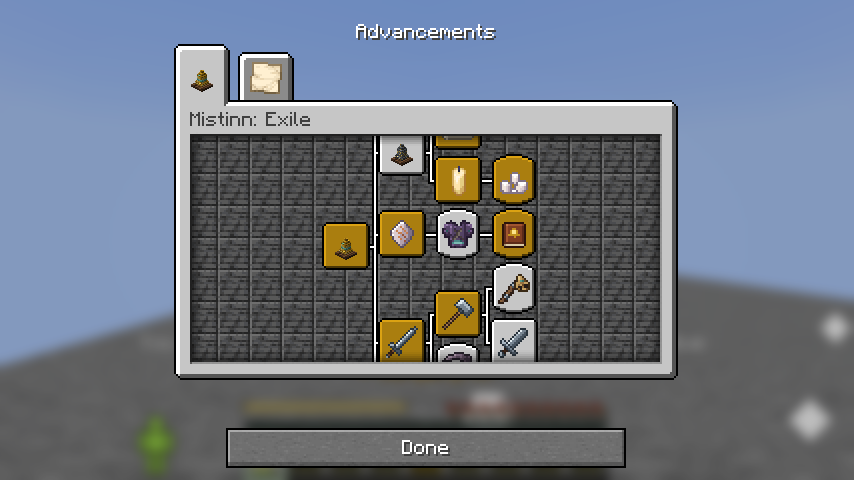
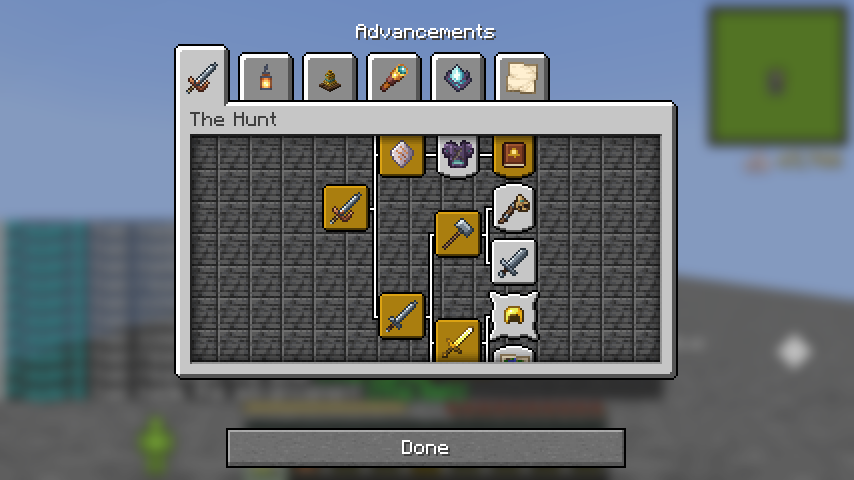
feat: 成就分成追獵、霧岸、生存、遠方與憧憬的屍之道五個分頁
- 新增四個分頁的根（霧岸、生存、遠方、憧憬的屍之道），原本的根改成「追獵」；既有成就的 ID 不變，只改掛到所屬分頁，玩家的進度不會掉
- 霧岸保留「熄燈人、沉鐘、鏽輪、結局」整條，結局仍要打倒沉鐘後才看得到；十二人斬放在大地之下（第三層）
- 憧憬的屍之道分頁只在屍之道世界、或拿過屍之道成就的追獵者身上出現；清除成就（離開訓練場）時保留所有分頁
- 墨斗的台詞、中英自述文件的成就段落改成分頁的說法，表格依分頁拆開，數量更正為四十三個（兩個隱藏）；換上新的分頁截圖
- 成就測試補上分頁的檢查，並補頒原本漏掉的十三人斬

diff --git a/src/main/java/life/shizune/mistinn/achievement/AchievementService.java b/src/main/java/life/shizune/mistinn/achievement/AchievementService.java
@@ -88,8 +88,21 @@ public final class AchievementService {
 	private static final String KILL = "kill:";
 	/** The folder of the tab, under the mod's namespace. */
 	private static final String TAB = "hunt/";
-	/** The tab's root: every hunter has it from the moment they arrive, so the tab is there before anything is earned. */
+	/**
+	 * The hunt's tab (weapons, footwork, stats, elites): its root, like every tab's, every hunter has from the moment they
+	 * arrive, so the tab is there before anything on it is earned. It is the tab the guide's bookmark opens.
+	 */
 	public static final Identifier ROOT = Mistinn.id(TAB + "root");
+	/** The other tabs: the mist shore (the story and its keepers), survival, afar (the sea, the rifts, Terra), and the tillers' way. */
+	public static final Identifier SHORE_TAB = Mistinn.id(TAB + "tab_shore");
+	public static final Identifier SURVIVAL_TAB = Mistinn.id(TAB + "tab_survival");
+	public static final Identifier AFAR_TAB = Mistinn.id(TAB + "tab_afar");
+	public static final Identifier PATH_TAB = Mistinn.id(TAB + "tab_path");
+	/** Every tab's root. */
+	public static final List<Identifier> ROOTS = List.of(ROOT, SHORE_TAB, SURVIVAL_TAB, AFAR_TAB, PATH_TAB);
+	/** What is on the tillers' way's tab: a hunter who holds any of these keeps the tab in any world. */
+	private static final List<Achievement> PATH_ONES = List.of(Achievement.SEA_SEEN, Achievement.XIRANG, Achievement.THE_LAND, Achievement.TWELVE_SLAIN,
+		Achievement.THIRTEEN_SLAIN);
 
 	/**
 	 * Set by the client: whether the local hunter has an achievement or mark, read from the advancements the server
@@ -211,12 +224,18 @@ public final class AchievementService {
 	}
 
 	/**
-	 * A hunter has arrived in a world: they get the tab's root, and a record kept the old way (before achievements
-	 * were advancements) is moved over once, without paying its salt again.
+	 * A hunter has arrived in a world: they get the tabs' roots, and a record kept the old way (before achievements
+	 * were advancements) is moved over once, without paying its salt again. The tillers' way's tab is only for a world
+	 * of the way, or a hunter who has walked it: nowhere else is anything on it to be earned.
 	 */
 	public static void joined(final ServerPlayer player) {
-		AdvancementHolder root = holder(player, ROOT);
-		if (root != null) {
+		boolean way = life.shizune.mistinn.story.WorldMode.of(player.level().getServer()) == life.shizune.mistinn.story.WorldMode.PATH
+			|| PATH_ONES.stream().anyMatch(each -> has(player, each));
+		for (Identifier id : ROOTS) {
+			AdvancementHolder root = holder(player, id);
+			if (root == null || id.equals(PATH_TAB) && !way) {
+				continue;
+			}
 			for (String criterion : List.copyOf(root.value().criteria().keySet())) {
 				player.getAdvancements().award(root, criterion);
 			}
@@ -271,12 +290,12 @@ public final class AchievementService {
 		}
 	}
 
-	/** Forgets every achievement and mark (the root stays): leaving the training ground, and tests. */
+	/** Forgets every achievement and mark (the tabs' roots stay): leaving the training ground, and tests. */
 	public static void clear(final ServerPlayer player) {
 		PlayerAdvancements advancements = player.getAdvancements();
 		for (AdvancementHolder holder : player.level().getServer().getAdvancements().getAllAdvancements()) {
 			Identifier id = holder.id();
-			if (!id.getNamespace().equals(Mistinn.MOD_ID) || !id.getPath().startsWith(TAB) || id.equals(ROOT)) {
+			if (!id.getNamespace().equals(Mistinn.MOD_ID) || !id.getPath().startsWith(TAB) || ROOTS.contains(id)) {
 				continue;
 			}
 			List<String> done = new java.util.ArrayList<>();

diff --git a/src/gametest/java/life/shizune/mistinn/test/MistinnAchievementTest.java b/src/gametest/java/life/shizune/mistinn/test/MistinnAchievementTest.java
@@ -99,6 +99,11 @@ public final class MistinnAchievementTest implements FabricClientGameTest {
 		world.getServer().runOnServer(server -> {
 			ServerPlayer player = player(server);
 			check(AchievementService.has(player, AchievementService.ROOT.getPath().substring("hunt/".length())), "every hunter has the tab's root from the start");
+			// the tabs: four in a world that is not the tillers' way; that one only for a hunter who has walked it
+			for (net.minecraft.resources.Identifier root : AchievementService.ROOTS) {
+				boolean want = !root.equals(AchievementService.PATH_TAB);
+				check(AchievementService.has(player, root.getPath().substring("hunt/".length())) == want, root + (want ? " is a tab from the start" : " is not a tab here"));
+			}
 			player.setAttached(MistinnAttachments.ACHIEVEMENTS, some);
 			AchievementService.joined(player);
 			check(AchievementService.has(player, Achievement.FIRST_KILL) && AchievementService.has(player, AchievementService.SNUFFER) && AchievementService.has(player, "kill:blade"),
@@ -108,6 +113,11 @@ public final class MistinnAchievementTest implements FabricClientGameTest {
 			check(player.getAttached(MistinnAttachments.ACHIEVEMENTS) == null, "and the old record is gone");
 			AchievementService.clear(player);
 			check(AchievementService.earned(player) == 0 && !AchievementService.has(player, "kill:blade"), "clearing forgets every one");
+			check(AchievementService.has(player, AchievementService.SHORE_TAB.getPath().substring("hunt/".length())), "but the tabs stay");
+			AchievementService.grant(player, Achievement.SEA_SEEN);
+			AchievementService.joined(player);
+			check(AchievementService.has(player, AchievementService.PATH_TAB.getPath().substring("hunt/".length())), "a hunter who has walked the way keeps its tab anywhere");
+			AchievementService.clear(player);
 		});
 	}
 
@@ -398,8 +408,8 @@ public final class MistinnAchievementTest implements FabricClientGameTest {
 		// the elder stunned against stone, a siege held, an alpha brought down (MistinnCrystalElderTest, MistinnSiegeTest and MistinnRiftHoundTest earn them)
 		String[] terra = {AchievementService.ELDER_STUNNED, AchievementService.SIEGE_HELD, AchievementService.ALPHA_SLAIN,
 			AchievementService.LIZARD_TAMED, AchievementService.RUIN_OPENED, AchievementService.RIFT_CALLED, AchievementService.SEA_SEEN,
-			AchievementService.TWELVE_SLAIN, AchievementService.XIRANG, AchievementService.THE_LAND};
-		int[] pays = {300, 600, 400, 200, 300, 300, 2000, 12, 3000, 1500};
+			AchievementService.TWELVE_SLAIN, AchievementService.THIRTEEN_SLAIN, AchievementService.XIRANG, AchievementService.THE_LAND};
+		int[] pays = {300, 600, 400, 200, 300, 300, 2000, 12, 13, 3000, 1500};
 		for (int i = 0; i < terra.length; i++) {
 			String id = terra[i];
 			int beforeEach = world.getServer().computeOnServer(server -> SaltService.get(player(server)));

diff --git a/src/gametest/java/life/shizune/mistinn/test/MistinnLightTest.java b/src/gametest/java/life/shizune/mistinn/test/MistinnLightTest.java
@@ -88,7 +88,7 @@ public final class MistinnLightTest implements FabricClientGameTest {
 				world.getConnection().waitForChunksRender();
 				List<String> ids = world.getServer().computeOnServer(server -> server.getAdvancements().getAllAdvancements().stream()
 					.map(holder -> holder.id())
-					.filter(id -> id.getNamespace().equals(Mistinn.MOD_ID) && id.getPath().startsWith("hunt/") && !id.getPath().equals("hunt/root"))
+					.filter(id -> id.getNamespace().equals(Mistinn.MOD_ID) && id.getPath().startsWith("hunt/") && !AchievementService.ROOTS.contains(id))
 					.map(id -> id.getPath().substring("hunt/".length())).sorted().toList());
 				check(ids.size() >= 40, "the hunt tab lists its achievements (" + ids.size() + ")");
 				world.getServer().runOnServer(server -> {

diff --git a/docs/README.en.md b/docs/README.en.md
@@ -119,7 +119,7 @@ damage by body part, gear in seven tiers, a grid inventory inspired by extractio
 | Flintlock and pistol | Taken from pirates (a captain always carries a pistol, a marksman now and then leaves a musket, the captain's chest may hold one). Hold use to raise and aim, let go to fire one paper cartridge; the musket reaches further and hits harder, the pistol comes up quicker. Paper cartridges: paper, gunpowder and an iron nugget make three; they are taken from the hotbar, the offhand, or the pockets, rig and backpack. |
 | Hunter's Guide | Placed in your hotbar the first time you join. A guide screen of its own: fifty-four pages on the world, the mission, the rules and what you hunt, the stats, the skill tree, the recipes, supply, the bestiary and the achievements. |
 | Bestiary | The guide's Bestiary bookmark keeps twenty creatures: the shore's, the three keepers, the pirates, the rift's, Terra's, and the zombies, skeletons, spiders, creepers and others found everywhere. Once one strikes you, you strike it or it winds up at you, its name, a picture that turns after the pointer, and what it is are written down; one brought down tells its **weakness**, five its **tell** (a boss such as a keeper, the crown elder or the rift herald tells everything at once). Hunters within 24 blocks share the count. Old worlds fill in the bosses already brought down from the achievements earned. |
-| Achievements | Forty-two of them (one hidden), from the first hunt, a monster down with each of the six branches and three hit by one heavy blow, to bringing down the Snuffer, the Sunken Bell and the Rust Wheel, taking a pirate ship, holding the shore, bringing down an elite of three affixes, the story's two endings, and the end of the Path of Longing. The game's toast shows at the top right and some salt is paid; all are kept on the mod's own tab of the advancements screen. See [Achievements](#achievements). |
+| Achievements | Forty-three of them (two hidden), from the first hunt, a monster down with each of the six branches and three hit by one heavy blow, to bringing down the Snuffer, the Sunken Bell and the Rust Wheel, taking a pirate ship, holding the shore, bringing down an elite of three affixes, the story's two endings, and the end of the Path of Longing. The game's toast shows at the top right and some salt is paid; they are kept on five tabs of the advancements screen: the hunt, the mist shore, survival, afar and the Path of Longing. See [Achievements](#achievements). |
 | World and structures | You always start at a broken or counterfeit drop station; drop stations, salt cairns, anchor wrecks and mist watchposts with supplies are scattered across the world. |
 | Tiers | N and I–VI; names show as "◆ name" in the tier colour, and inventory cells sit on the tier colour. |
 | Gear | A helmet, mask, body armour, chest rig and backpack per tier, plus leggings and boots from N to V, and two more lines beside them, light (helmet, armour, pack) and heavy (helmet, armour, rig, pack): see [Light and heavy lines](#light-and-heavy-lines); each with its own durability, protection, capacity, layout and a two-line story. |
@@ -515,9 +515,11 @@ A hunter starts growing once a keeper falls and its rust god salt comes home. Op
 
 | | |
 | --- | --- |
-| ![The mod's own tab on the game's advancements screen: lines for hunting, footwork, growth, the bells and the keepers spread out from the golden bell, earned ones lit](images/advancements-tab.png) | ![The game's toast at the top right, left of the minimap: the icon and the achievement's name](images/advancement-toast.png) |
+| ![The hunt's tab on the game's advancements screen: lines for hunting, elites, footwork and growth spread out from the anchor blade, earned ones lit; the mist shore, survival and afar tabs above](images/advancements-tab.png) | ![The game's toast at the top right, left of the minimap: the icon and the achievement's name](images/advancement-toast.png) |
 
-Achievements are the game's own **advancements**: press `L` and the mod has a tab of its own (the golden bell), which the guide's deeds bookmark opens too. When you do something worth remembering, the game's toast shows at the top right (left of the minimap, so neither hides the other), a bell chimes and some salt is paid (the first time only); the chat tells everyone who earned what, as it does for the game's own advancements (hover the name for what it asks; `/gamerule show_advancement_messages false` turns it off). The Armory shows how many of the six weapon branches are done. Achievements are saved and kept through death; achievements in an older save are moved into the advancements when you enter the world, without paying their salt again; bringing down the Snuffer is also what the Snuffer's Hook asks for.
+Achievements are the game's own **advancements**: press `L` and the mod's achievements are on five tabs: **the Hunt**, **the Mist Shore**, **Survival**, **Afar**, and **the Path of Longing**, which shows only in a world of the way or for a hunter who has walked it. The guide's deeds bookmark opens the hunt's tab. When you do something worth remembering, the game's toast shows at the top right (left of the minimap, so neither hides the other), a bell chimes and some salt is paid (the first time only); the chat tells everyone who earned what, as it does for the game's own advancements (hover the name for what it asks; `/gamerule show_advancement_messages false` turns it off). The Armory shows how many of the six weapon branches are done. Achievements are saved and kept through death; achievements in an older save are moved into the advancements when you enter the world, without paying their salt again; bringing down the Snuffer is also what the Snuffer's Hook asks for.
+
+**The Hunt** (weapons, footwork, stats and elites)
 
 | Achievement | How | Salt |
 | --- | --- | --- |
@@ -525,44 +527,64 @@ Achievements are the game's own **advancements**: press `L` and the mod has a ta
 | Armory | Bring one down with each of the six branches: blade, greatsword, spear, dagger, hammer, scythe | 600 |
 | Three in One | Hit three or more with one heavy blow | 200 |
 | Broken Off | Break off a monster's attack with a full heavy blow | 200 |
+| Chosen | Land a special weapon's own heavy blow | 400 |
 | Close Shave | Roll through an attack | 150 |
 | Swept Away | Hit a monster with a slide | 150 |
 | First Skill | Learn the slide in the guide | 100 |
 | Mastery | Bring any stat to 5 | 300 |
 | All Round | At least 1 in all four stats | 200 |
-| Chosen | Land a special weapon's own heavy blow | 400 |
+| Elite Hunter | Bring down an elite | 300 |
+| Triple Threat | Bring down an elite of three affixes | 900 |
+| Bounty Hunter | Bring down an elite the anchor station put a bounty on | 500 |
+
+**The Mist Shore** (the lighthouses, the three keepers and the story's endings)
+
+| Achievement | How | Salt |
+| --- | --- | --- |
 | Snuffer Slain | The Snuffer falls with you near | 1000 |
 | Sunken Bell Silenced | The Sunken Bell falls with you near | 1200 |
 | Rust Wheel Stopped | The Rust Wheel stops with you near | 1500 |
-| Prize of the Fog Sea | Take a pirate ship: its captain falls with you near | 1200 |
-| Fleet Breaker | Be near when the third pirate ship of this world is taken | 2000 |
-| Shore Held | Fight off a pirate landing by night | 400 |
-| Sharpshooter | Bring down a pirate with a flintlock or pistol | 300 |
-| Elite Hunter | Bring down an elite | 300 |
-| Triple Threat | Bring down an elite of three affixes | 900 |
-| Through the Fog Tide | Be there when a fog tide rises and hold out till dawn without falling once | 500 |
-| Bounty Hunter | Bring down an elite the anchor station put a bounty on | 500 |
-| Sew the Sky Shut | Be under a sky rift when it is sealed | 600 |
-| Shatter | Bring down a crystal drake | 400 |
-| Homestead | Wake the hub of a crystal tillers' settlement | 500 |
-| The Crown | Bring down a crown elder | 1000 |
-| Into the Spire | Be within 24 blocks when a crown elder's charge ends against stone and stuns it | 300 |
-| Fields Held | Hold a homestead against a crystal tide | 600 |
-| Howl Silenced | Bring down a rift alpha | 400 |
-| A Lizard's Friend | Tame a crystal lizard with grit | 200 |
-| What Was Left | Open the chest in a vein ruin | 300 |
-| Call the Sky Down | Tear a sky rift open with a beacon | 300 |
-| Apostle of the Rust Anchor | Hidden; how it is earned is not told. Once earned, 8% less from every blow and 2 more in each of the four stats (past the cap) | 5000 |
 | The Anchor | Send the Rust God's salt up | 2000 |
 | Mist Inn | Throw the Rust God's salt into the Mist Inn's fire | 2000 |
+| Apostle of the Rust Anchor | Hidden; how it is earned is not told. Once earned, 8% less from every blow and 2 more in each of the four stats (past the cap) | 5000 |
+
+**Survival** (wounds, golden bells, residue and the fog tide)
+
+| Achievement | How | Salt |
+| --- | --- | --- |
+| The Bell | Rest at a golden bell | 50 |
+| Gathered Back | Take your residue back from your gravestone | 100 |
+| Steady Hands | Save a destroyed part with a surgery kit | 150 |
+| Salt Merchant | Carry 5000 salt | – |
+| Through the Fog Tide | Be there when a fog tide rises and hold out till dawn without falling once | 500 |
+
+**Afar** (the fog sea, the sky rifts and the Terra highland)
+
+| Achievement | How | Salt |
+| --- | --- | --- |
+| Prize of the Fog Sea | Take a pirate ship: its captain falls with you near | 1200 |
+| Fleet Breaker | Be near when the third pirate ship of this world is taken | 2000 |
+| Sharpshooter | Bring down a pirate with a flintlock or pistol | 300 |
+| Shore Held | Fight off a pirate landing by night | 400 |
+| Sew the Sky Shut | Be under a sky rift when it is sealed | 600 |
+| Howl Silenced | Bring down a rift alpha | 400 |
+| Call the Sky Down | Tear a sky rift open with a beacon | 300 |
+| Shatter | Bring down a crystal drake | 400 |
+| The Crown | Bring down a crown elder | 1000 |
+| Homestead | Wake the hub of a crystal tillers' settlement | 500 |
+| Into the Spire | Be within 24 blocks when a crown elder's charge ends against stone and stuns it | 300 |
+| Fields Held | Hold a homestead against a crystal tide | 600 |
+| A Lizard's Friend | Tame a crystal lizard with grit | 200 |
+| What Was Left | Open the chest in a vein ruin | 300 |
+
+**Path of Longing** (only in a world of the Path of Longing, or for a hunter who has walked it)
+
+| Achievement | How | Salt |
+| --- | --- | --- |
 | The Sea | Walk the Path of Longing out of the Terra highland to the sea | 2000 |
 | Xirang | Walk the Path of Longing to the sea with no one fallen on the way | 3000 |
 | The Land | Reach the sea on the Path of Longing over some of the fallen (its words weigh how many) | 1500 |
 | Twelve Slain | Let all twelve of the settlement fall on the Path of Longing. Having fun? | 12 |
-| Steady Hands | Save a destroyed part with a surgery kit | 150 |
-| The Bell | Rest at a golden bell | 50 |
-| Gathered Back | Take your residue back from your gravestone | 100 |
-| Salt Merchant | Carry 5000 salt | – |
 
 ## Controls
 

diff --git a/README.md b/README.md
@@ -131,7 +131,7 @@
 | 火槍與手槍 | 從海盜身上搶來（船長一定帶著手槍，火槍手偶爾會留下火槍，船長的箱子也可能有）。按住使用鍵舉槍瞄準，放開射出一發紙彈；長槍打得遠、傷害高，手槍舉得快。紙彈用紙、火藥、鐵粒合成三發，從快捷欄、副手或口袋、胸掛、背包裡拿。 |
 | 追獵者手冊 | 第一次進入世界時放在快捷欄。原創的手冊介面：五十四頁世界觀、任務、規則與獵物，屬性、技能樹、合成表、補給、獵物圖鑑與成就。 |
 | 獵物圖鑑 | 手冊的「圖鑑」分頁記下二十種獵物：霧岸、三位燈守、海盜、空裂、泰拉，以及到處都有的殭屍、骷髏、蜘蛛、苦力怕等。被它打到、打到它，或它對你起手，就記下名字、會跟著游標轉的模型和它是什麼；獵到一隻知道**弱點**，獵到五隻知道**徵兆**（燈守、晶冠古龍、裂隙使者這類首領打倒一次就全部知道）。24 格內一起狩獵的隊友也算一隻。舊存檔會依已有的成就補上打倒過的首領。 |
-| 成就 | 四十二個成就（其中一個是隱藏的），從第一次狩獵、用六種武器各打倒一隻怪物、一記重擊打中三隻，到打倒熄燈人、沉鐘與鏽輪、奪下海盜船、守住海岸、打倒帶三個詞綴的精英，以及故事的兩個結局和憧憬的屍之道的終點；達成時右上角跳出原版的進度提示並給鹽，全部記在原版進度畫面裡霧宿自己的分頁，見[成就](#成就)。 |
+| 成就 | 四十三個成就（其中兩個是隱藏的），從第一次狩獵、用六種武器各打倒一隻怪物、一記重擊打中三隻，到打倒熄燈人、沉鐘與鏽輪、奪下海盜船、守住海岸、打倒帶三個詞綴的精英，以及故事的兩個結局和憧憬的屍之道的終點；達成時右上角跳出原版的進度提示並給鹽，依追獵、霧岸、生存、遠方與憧憬的屍之道分成五個分頁，記在原版的進度畫面裡，見[成就](#成就)。 |
 | 世界與建築 | 出生點必定是一座破損或仿冒的追獵者投放站；世界各處還有投放站、鹽塚、鏽錨殘骸與霧中崗哨，裡面有補給。 |
 | 品級 | N、I～VI 七級；名稱顯示為品級色的「◆ 名稱」，物品欄以品級色為底。 |
 | 裝備 | 每個品級各有頭盔、面罩、護甲、胸掛與背包，N～V 另有護腿與靴子；另有輕裝（頭盔、護甲、背包）與重裝（頭盔、護甲、胸掛、背包）兩條產線，見[輕裝與重裝](#輕裝與重裝)；耐久、防護、容量與格局都不同，各有兩行故事描述。 |
@@ -579,9 +579,11 @@
 
 | | |
 | --- | --- |
-| ![原版進度畫面裡霧宿自己的分頁：從金鐘往外分出狩獵、身法、成長、金鐘與燈守幾條線，達成的亮起](docs/images/advancements-tab.png) | ![畫面右上角、小地圖左邊跳出的進度提示：圖示與成就名稱](docs/images/advancement-toast.png) |
+| ![原版進度畫面裡霧宿的「追獵」分頁：從錨刃往外分出狩獵、精英、身法與成長幾條線，達成的亮起；上方還有霧岸、生存、遠方幾個分頁](docs/images/advancements-tab.png) | ![畫面右上角、小地圖左邊跳出的進度提示：圖示與成就名稱](docs/images/advancement-toast.png) |
 
-成就就是遊戲原本的**進度**：按 `L` 打開進度畫面，霧宿有自己的一個分頁（金鐘圖示），從手冊的「成就」書籤也能直接翻到。做到值得記住的事，畫面右上角會跳出原版的提示（排在小地圖左邊，不會互相遮住）、響一聲鐘音，並給一點鹽（只在第一次）；聊天室也會像原版進度一樣公告誰達成了什麼（滑鼠移到名稱上看條件，`/gamerule show_advancement_messages false` 可以關掉）。「百兵」會顯示六種武器分支已經完成幾種。成就跟著存檔，死亡不會失去；舊存檔的成就會在進入世界時自動搬進進度裡，不會重複給鹽；打倒熄燈人也是熄燈鉤鐮的條件。
+成就就是遊戲原本的**進度**：按 `L` 打開進度畫面，霧宿的成就分成五個分頁：**追獵**、**霧岸**、**生存**、**遠方**，以及只在憧憬的屍之道世界（或走過它的追獵者）才出現的**憧憬的屍之道**。手冊的「成就」書籤會直接翻到追獵那一頁。做到值得記住的事，畫面右上角會跳出原版的提示（排在小地圖左邊，不會互相遮住）、響一聲鐘音，並給一點鹽（只在第一次）；聊天室也會像原版進度一樣公告誰達成了什麼（滑鼠移到名稱上看條件，`/gamerule show_advancement_messages false` 可以關掉）。「百兵」會顯示六種武器分支已經完成幾種。成就跟著存檔，死亡不會失去；舊存檔的成就會在進入世界時自動搬進進度裡，不會重複給鹽；打倒熄燈人也是熄燈鉤鐮的條件。
+
+**追獵**（武器、身法、屬性與精英）
 
 | 成就 | 條件 | 獎勵鹽 |
 | --- | --- | --- |
@@ -589,44 +591,64 @@
 | 百兵 | 用直刃、大劍、長槍、短刃、戰鎚、鐮刀各打倒一隻怪物 | 600 |
 | 一擊三命 | 一記重擊打中三隻以上 | 200 |
 | 打斷 | 用蓄滿的重擊打斷怪物正在蓄的攻擊 | 200 |
+| 名器認主 | 用特殊武器打出它自己的重擊 | 400 |
 | 間不容髮 | 在翻滾的無敵時間裡躲過一次攻擊 | 150 |
 | 鏟倒 | 用滑鏟鏟到一隻怪物 | 150 |
 | 第一個技能 | 在手冊學會滑鏟 | 100 |
 | 專精 | 任一項屬性到 5 | 300 |
 | 全面 | 四項屬性都至少 1 | 200 |
-| 名器認主 | 用特殊武器打出它自己的重擊 | 400 |
+| 精英獵手 | 打倒一隻精英怪物 | 300 |
+| 三重威脅 | 打倒一隻帶著三個詞綴的精英 | 900 |
+| 賞金獵人 | 打倒一隻鏽錨站懸賞的精英 | 500 |
+
+**霧岸**（燈塔、三位燈守與故事的結局）
+
+| 成就 | 條件 | 獎勵鹽 |
+| --- | --- | --- |
 | 打倒熄燈人 | 熄燈人在你附近倒下 | 1000 |
 | 打倒沉鐘 | 沉鐘在你附近倒下 | 1200 |
 | 打倒鏽輪 | 鏽輪在你附近停下 | 1500 |
-| 霧海奪船 | 奪下一艘海盜船：船長在你附近倒下 | 1200 |
-| 船隊剋星 | 這個世界奪下第三艘海盜船時，你在附近 | 2000 |
-| 守住海岸 | 擊退一次海盜的夜間登陸 | 400 |
-| 神射手 | 用火槍或手槍打倒一個海盜 | 300 |
-| 精英獵手 | 打倒一隻精英怪物 | 300 |
-| 三重威脅 | 打倒一隻帶著三個詞綴的精英 | 900 |
-| 熬過霧潮 | 霧潮升起時在場，撐到天亮、一次也沒有倒下 | 500 |
-| 賞金獵人 | 打倒一隻鏽錨站懸賞的精英 | 500 |
-| 縫合天空 | 在一道空裂縫合時身在它底下 | 600 |
-| 碎晶 | 打碎一隻晶龍 | 400 |
-| 家園 | 喚醒一座晶耕族聚落的樞紐 | 500 |
-| 晶冠 | 打倒一隻晶冠古龍 | 1000 |
-| 撞上晶塔 | 晶冠古龍的衝撞撞上石頭暈倒時，在牠 24 格內 | 300 |
-| 守住晶田 | 守住一次家園的晶潮 | 600 |
-| 嚎聲止息 | 打倒一隻裂隙頭犬 | 400 |
-| 晶蜥的朋友 | 用晶屑馴服一隻晶蜥 | 200 |
-| 遺跡尋寶 | 打開一座晶脈遺跡裡的箱子 | 300 |
-| 呼喚天裂 | 用裂隙信標撕開一道空裂 | 300 |
-| 鏽錨使徒 | 隱藏成就，達成方式不公開；取得後受到的傷害減少 8%，四項屬性各多 2 點（可以越過上限） | 5000 |
 | 錨 | 把鏽神的鹽塊送上去 | 2000 |
 | 霧宿 | 把鏽神的鹽塊丟進霧宿的爐火 | 2000 |
+| 鏽錨使徒 | 隱藏成就，達成方式不公開；取得後受到的傷害減少 8%，四項屬性各多 2 點（可以越過上限） | 5000 |
+
+**生存**（傷、金鐘、殘香與霧潮）
+
+| 成就 | 條件 | 獎勵鹽 |
+| --- | --- | --- |
+| 鐘聲 | 在金鐘休息 | 50 |
+| 拾回 | 從自己的墓碑取回殘香 | 100 |
+| 妙手 | 用手術包救回一個壞死的部位 | 150 |
+| 鹽商 | 身上帶著 5000 鹽 | – |
+| 熬過霧潮 | 霧潮升起時在場，撐到天亮、一次也沒有倒下 | 500 |
+
+**遠方**（霧海、空裂與泰拉高地）
+
+| 成就 | 條件 | 獎勵鹽 |
+| --- | --- | --- |
+| 霧海奪船 | 奪下一艘海盜船：船長在你附近倒下 | 1200 |
+| 船隊剋星 | 這個世界奪下第三艘海盜船時，你在附近 | 2000 |
+| 神射手 | 用火槍或手槍打倒一個海盜 | 300 |
+| 守住海岸 | 擊退一次海盜的夜間登陸 | 400 |
+| 縫合天空 | 在一道空裂縫合時身在它底下 | 600 |
+| 嚎聲止息 | 打倒一隻裂隙頭犬 | 400 |
+| 呼喚天裂 | 用裂隙信標撕開一道空裂 | 300 |
+| 碎晶 | 打碎一隻晶龍 | 400 |
+| 晶冠 | 打倒一隻晶冠古龍 | 1000 |
+| 家園 | 喚醒一座晶耕族聚落的樞紐 | 500 |
+| 撞上晶塔 | 晶冠古龍的衝撞撞上石頭暈倒時，在牠 24 格內 | 300 |
+| 守住晶田 | 守住一次家園的晶潮 | 600 |
+| 晶蜥的朋友 | 用晶屑馴服一隻晶蜥 | 200 |
+| 遺跡尋寶 | 打開一座晶脈遺跡裡的箱子 | 300 |
+
+**憧憬的屍之道**（只在憧憬的屍之道世界，或走過它的追獵者的進度裡出現）
+
+| 成就 | 條件 | 獎勵鹽 |
+| --- | --- | --- |
 | 看見海 | 在憧憬的屍之道走出泰拉高地，抵達海邊 | 2000 |
 | 息壤 | 在憧憬的屍之道裡沒有任何人倒下，一路走到海邊 | 3000 |
 | 大地 | 在憧憬的屍之道裡有人倒下，還是走到了海邊（描述會依倒下的人數而不同） | 1500 |
 | 十二人斬 | 在憧憬的屍之道讓十二位族人全部倒下。玩得很開心嗎？ | 12 |
-| 妙手 | 用手術包救回一個壞死的部位 | 150 |
-| 鐘聲 | 在金鐘休息 | 50 |
-| 拾回 | 從自己的墓碑取回殘香 | 100 |
-| 鹽商 | 身上帶著 5000 鹽 | – |
 
 ## 操作
 
